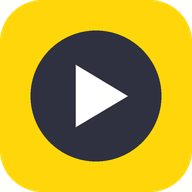
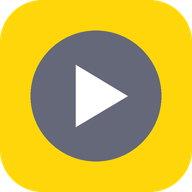
Soften dark slate to a calm grey
Claude-Session: https://claude.ai/code/session_01NYcTLXAZp7nNGrEsK21gDz

diff --git a/css/app.css b/css/app.css
@@ -1,11 +1,11 @@
-/* Calm: white page, very light gray cards, slate text, one yellow accent.
+/* Calm: white page, very light gray cards, soft grey text, one yellow accent.
    No borders or shadows. Dark circles are the main controls, yellow marks what to do next. */
 @font-face{font-family:"Nunito";src:url("../fonts/nunito.woff2") format("woff2");font-weight:200 1000;font-display:swap}
 
 :root{
-  --bg:#ffffff; --card:#f6f6f8; --card-2:#ececf0; --ink:#2f3140; --muted:#5e6070; --line:#ececf0;
-  --track:#e6e6ec; --accent:#ffd60a; --accent-ink:#2f3140; --ctl:#2f3140; --ctl-ink:#ffffff;
-  --off:#8f91a1; --danger:#b42318; --scrim:rgba(47,49,64,.45);
+  --bg:#ffffff; --card:#f6f6f8; --card-2:#ececf0; --ink:#4a4d5e; --muted:#686b7b; --line:#ececf0;
+  --track:#e6e6ec; --accent:#ffd60a; --accent-ink:#3f4252; --ctl:#656879; --ctl-ink:#ffffff;
+  --off:#8f91a1; --danger:#b42318; --scrim:rgba(74,77,94,.45);
   --font:"Nunito","Varela Round","Avenir Next","Segoe UI",system-ui,-apple-system,sans-serif;
   --sat:env(safe-area-inset-top,0px); --sab:env(safe-area-inset-bottom,0px);
   color-scheme:light;
